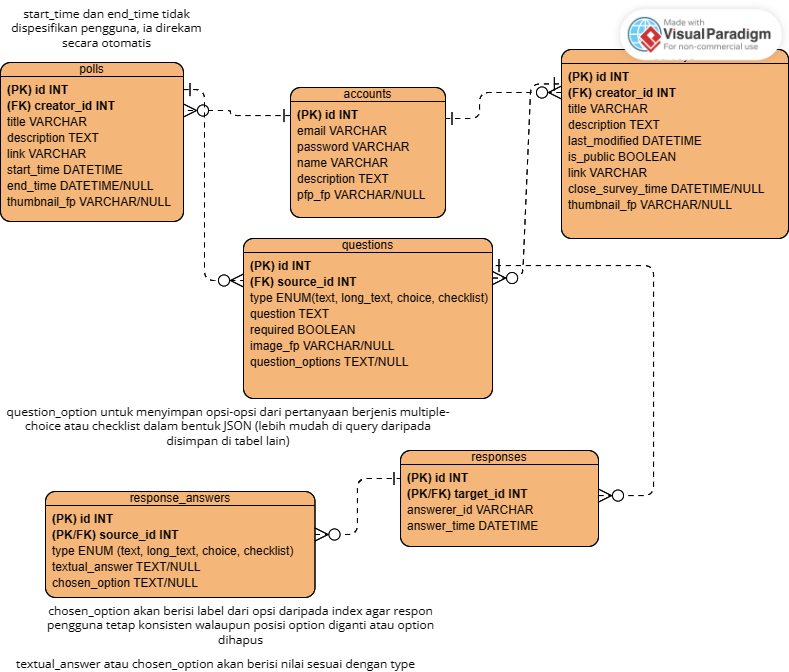
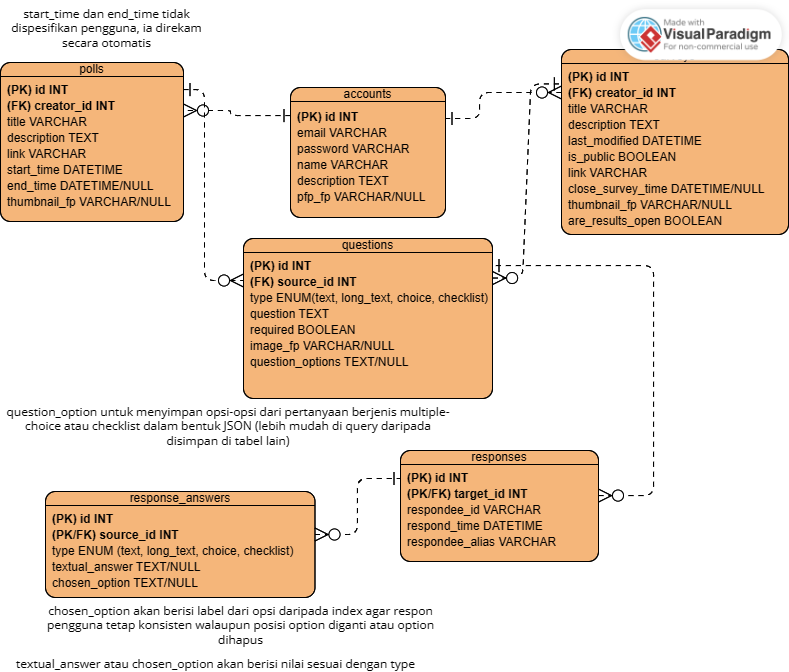
Modifikasi diagram sedikit setelah dipikirkan

Changed region(s): [[0.365, 0.1562, 0.5475, 0.3125], [0.4867, 0.75, 0.7605, 0.8438], [0.6996, 0.3125, 1.0, 0.375]]

diff --git a/Mockup/Backend.md b/Mockup/Backend.md
@@ -132,6 +132,7 @@ Request (multipart-formdata):
 - description (string)
 - close_time (string): Kapan survey secara otomatis ditutup dalam format waktu ISO
 - is_public (boolean)
+- are_results_open (boolean): Apakah orang lain dapat mengakses hasil survey setelah mengisi survey tanpa diberikan link?
 - questions[]
     - type: string
     - question: string
@@ -158,6 +159,7 @@ Response:
     - link (string)
     - close_time (string): Kapan survey terakhir diubah dalam format waktu ISO
     - thumbnail (string)
+    - are_results_open (boolean): Apakah orang lain dapat mengakses hasil survey setelah mengisi survey tanpa diberikan link?
     - questions[]
         - id (number)
         - type (string)
@@ -207,6 +209,8 @@ Request (multipart/form-data):
 - description (string?)
 - close_time (string?): Kapan survey otomatis ditutup dalam format waktu ISO
 - questions (string?)
+- is_public (boolean?)
+- are_results_open (boolean?): Apakah orang lain dapat mengakses hasil survey setelah mengisi survey tanpa diberikan link?
 
 Request Files:
 - thumbnail?
